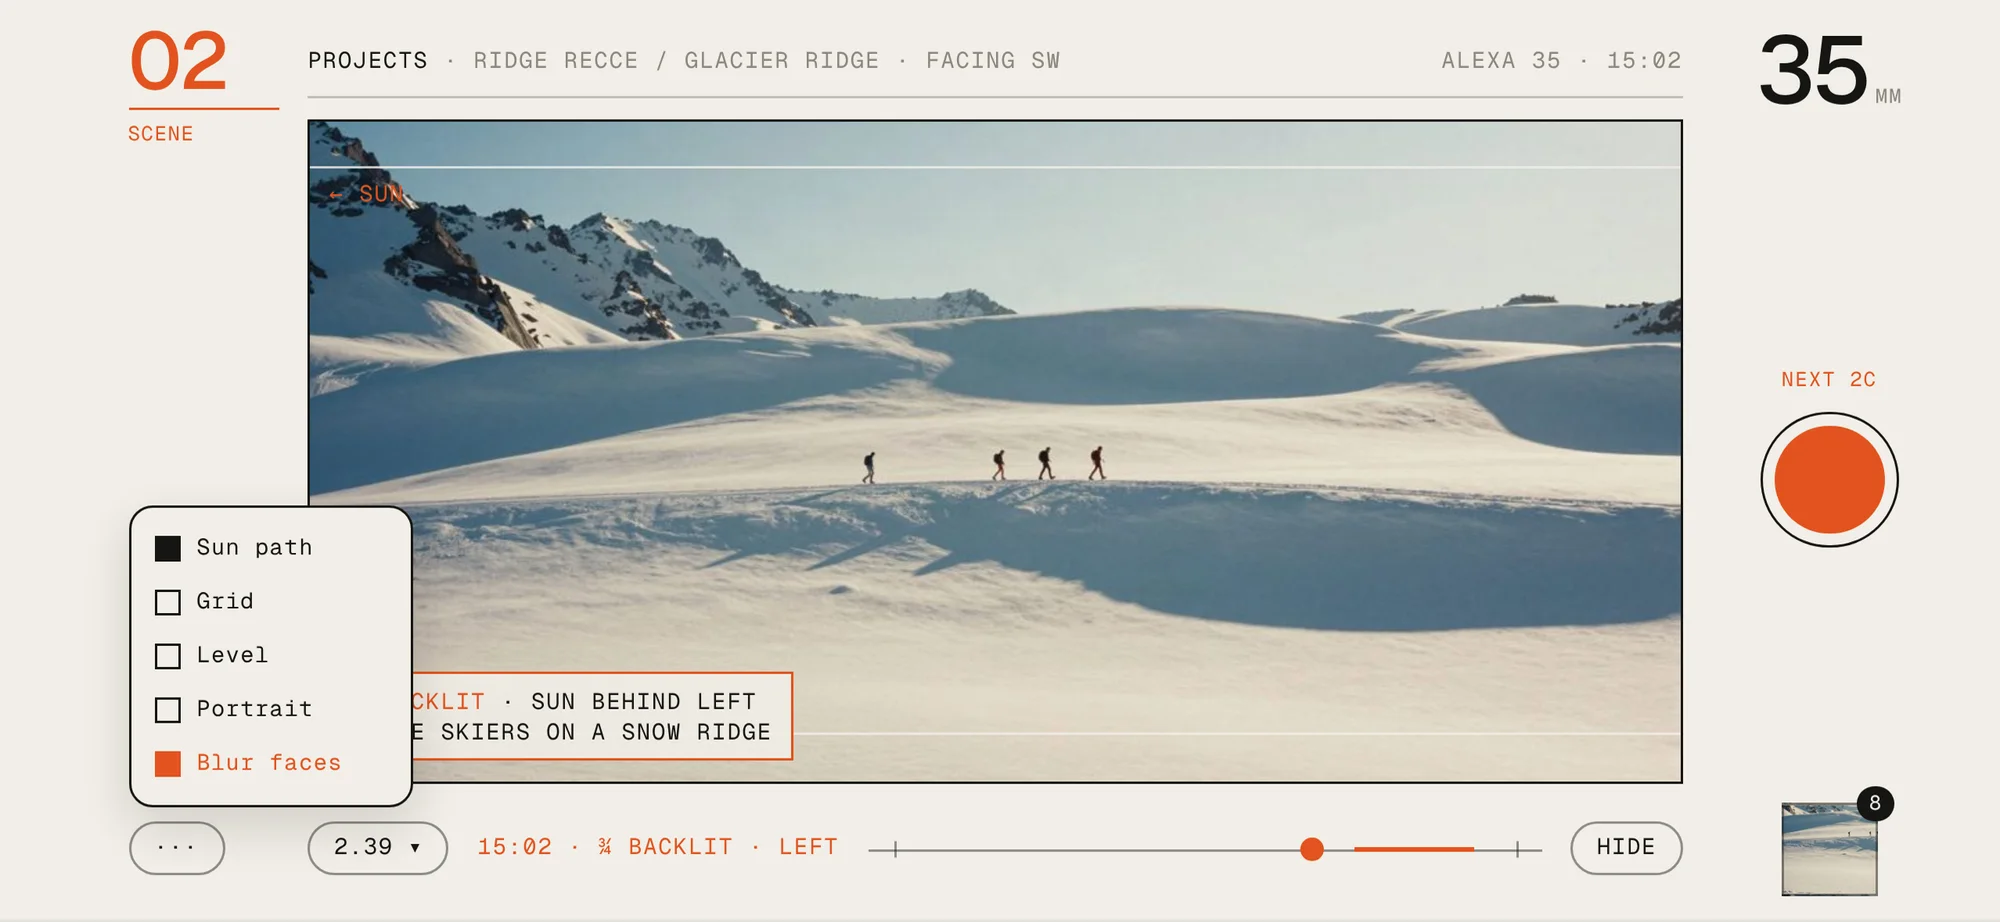
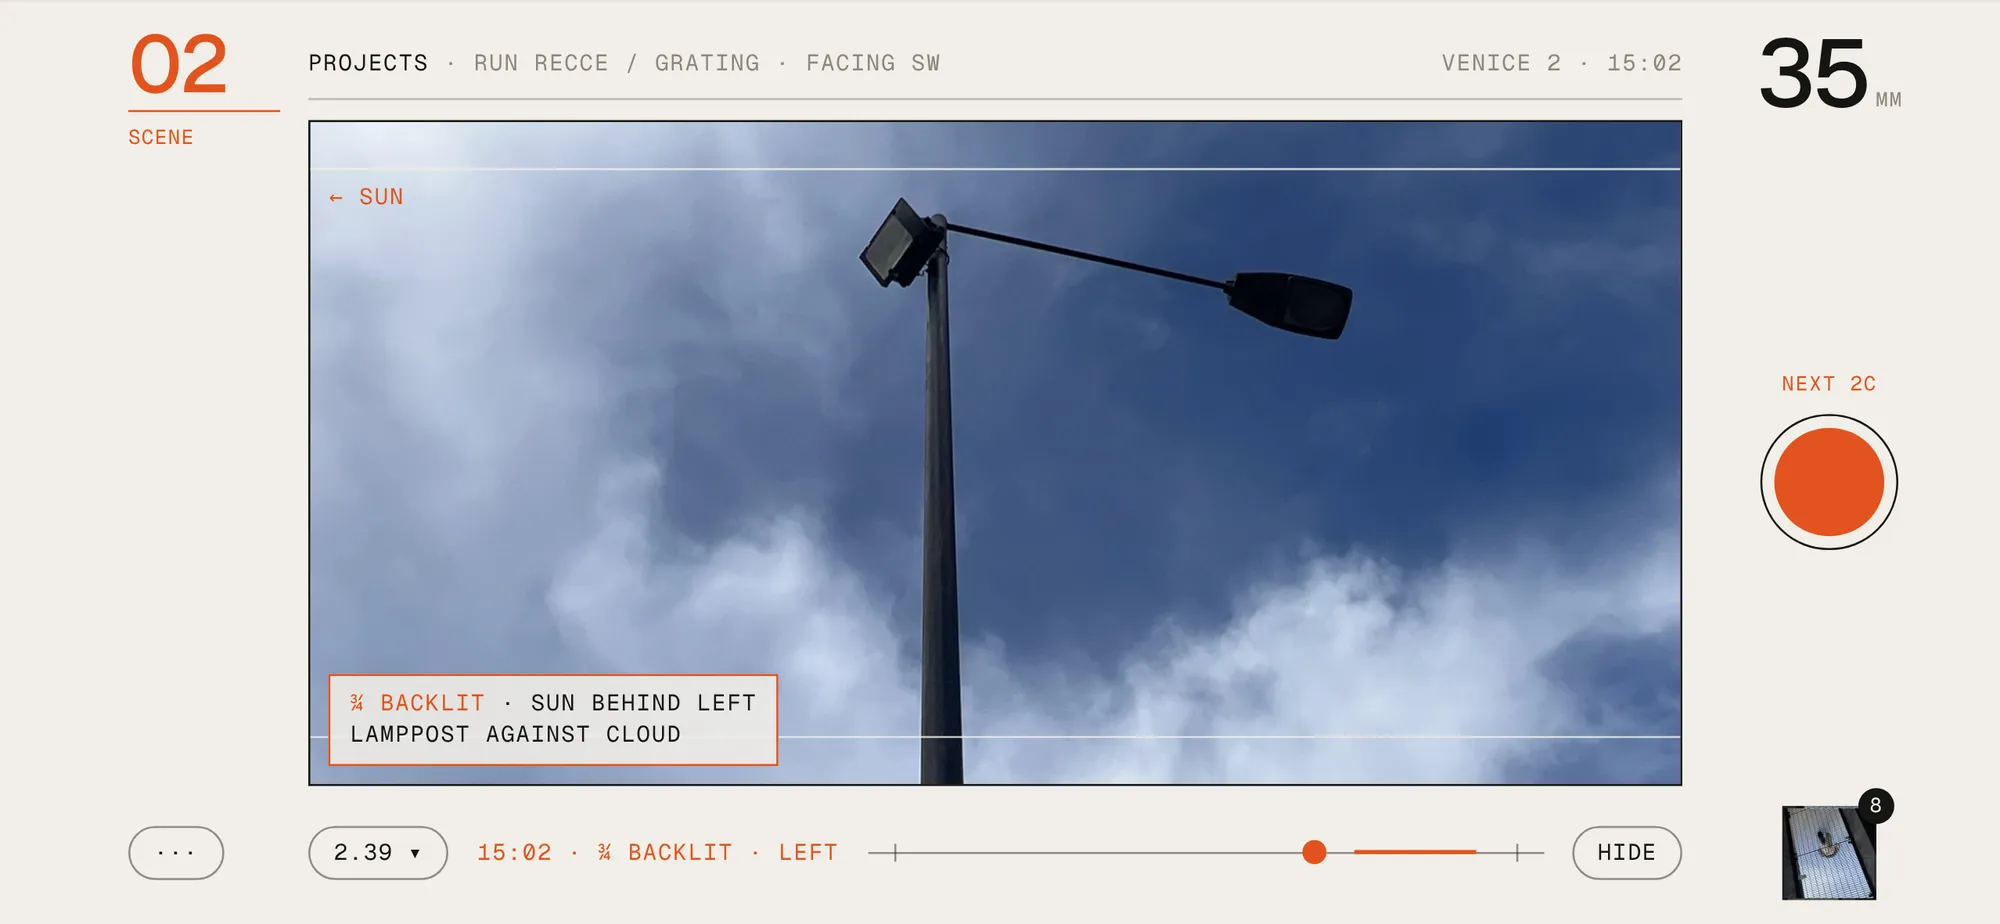
Out & Scout 1.1 site preview: plain scroll, Elliot's copy, real recce stills with faces blurred
Claude-Session: https://claude.ai/code/session_01WU34tcMVhkrTaHNpy6ux3Z

diff --git a/preview/out-and-scout-11/index.html b/preview/out-and-scout-11/index.html
@@ -2,11 +2,11 @@
 <html lang="en-GB">
 <head>
 <meta charset="utf-8">
+<meta name="robots" content="noindex">
 <meta name="viewport" content="width=device-width,initial-scale=1,viewport-fit=cover">
 <title>Out &amp; Scout</title>
 <meta name="claude:viewport-fit-sides" content="cover">
 <meta name="description" content="A viewfinder for the recce. Shoot, and the light, caption and scene are written for you. Send the stills and the shot list before you leave.">
-<meta name="robots" content="noindex">
 <meta name="theme-color" content="#F1EEE7">
 <link rel="icon" href="favicon.svg?v=2" type="image/svg+xml">
 <link rel="preconnect" href="https://fonts.googleapis.com">
@@ -79,15 +79,15 @@ header nav a.on::after{content:"";position:absolute;left:0;right:0;bottom:-13px;
 .kit .in{display:contents}
 .kit .fade{animation:fin .45s var(--e)}
 @keyframes fin{from{opacity:0;transform:translateY(8px)}to{opacity:1;transform:none}}
-.steps .s{height:90svh}
-.steps .s:first-child{height:75svh}
-@media (min-width:900px){
-  .stage{grid-template-columns:minmax(0,1fr) 360px;grid-template-rows:auto 1fr;gap:28px 48px;align-items:center}
-  .tabs{grid-column:1 / -1}
-  .phone{grid-column:1;grid-row:2}
-  .kit{grid-column:2;grid-row:2;grid-template-columns:1fr;align-self:center}
-  .kit p{font-size:14px}
-}
+/* the features: a plain list, one per row */
+.feat{display:grid;border-top:1px solid var(--ink)}
+.f{display:grid;gap:18px;padding-block:28px 36px;border-bottom:1px solid var(--line)}
+.f .kit{display:grid;gap:8px;align-content:start}
+.f .n{font:400 clamp(56px,15vw,120px)/.82 var(--num);letter-spacing:-.06em;color:var(--sun);padding-bottom:8px;border-bottom:1.5px solid var(--sun);width:max-content;min-width:1.4em}
+.f h2{margin:6px 0 0;font:400 clamp(26px,6vw,48px)/1.04 var(--num);letter-spacing:-.035em;text-wrap:balance}
+.f p{margin:0;color:var(--grey);max-width:46ch;font-size:13px}
+.f .scr img{opacity:1;transform:none}
+@media (min-width:900px){.f{grid-template-columns:340px minmax(0,1fr);gap:56px;align-items:center;padding-block:48px}.f p{font-size:14px}}
 
 /* after */
 .sec{border-top:1px solid var(--ink);padding-block:56px;display:grid;gap:28px}
@@ -128,19 +128,14 @@ footer nav{display:flex;gap:18px}
     <span class="lab">iPhone · for DPs and directors on the recce</span>
     <h1>Scout it once.<br>Know the shoot day.</h1>
     <div class="sub">
-      <p>A viewfinder for the recce. <b>You press the shutter.</b> The light, a caption and the scene are written for you, and the shot list is ready before you've left.</p>
+      <p><b>We wanted to make recceing a little easier.</b> So we built the things we kept wishing we had on a recce.</p>
       <div class="btns"><a class="btn" href="#get">Get it free</a><a class="btn ghost" href="#how">How it works ↓</a></div>
     </div>
   </div>
 </section>
 
-<section class="show wrap" id="how" aria-label="How Out &amp; Scout works">
-  <div class="stage max">
-    <div class="tabs" id="tabs" role="tablist" aria-label="Steps"></div>
-    <div class="phone" aria-hidden="true"><i class="isl"></i><div class="scr" id="scr"><i class="ring" id="ring"></i></div></div>
-    <div class="kit" aria-live="polite" id="kit"></div>
-  </div>
-  <div class="steps" id="steps"></div>
+<section class="wrap" id="how" aria-label="How Out &amp; Scout works">
+  <div class="max feat" id="feat"></div>
 </section>
 
 <section class="sec wrap">
@@ -180,49 +175,20 @@ footer nav{display:flex;gap:18px}
 
 <script>
 /* the walk-through. f = focus on the real screen: centre x, y (0 to 1) and zoom; r = ring round the detail that matters */
+function SRC(n){return (typeof IMG!=="undefined"&&IMG[n])||"img/"+n+".webp";}
 var S=[
- {k:"Shoot",img:"os11-viewfinder",n:"01",h:"Just press the shutter.",p:"The light read, a caption of what's in frame and the scene are written as you shoot. No notebook.",f:[.35,.6,1.3],r:[.06,.86,.37,.95]},
- {k:"Selects",img:"os11-selects",n:"02",h:"Stills sent before you leave.",p:"The client wants frames now. Tap to pick, send full-size JPEGs by AirDrop, WhatsApp or Mail.",f:[.5,.5,1.15],r:[.68,.3,.97,.37]},
- {k:"Blur faces",img:"os11-viewer-blur",n:"03",h:"Blur the crew.",p:"Faces are found and softened on the phone before anything goes out. Missed one? Tap Fix.",f:[.46,.42,1.3],r:[.62,.94,.98,1]},
- {k:"Shots",img:"os11-shots",n:"04",h:"The shot list writes itself.",p:"Every shot on the day's sun arc, numbered by scene, with its time and light.",f:[.6,.45,1.2],r:[.14,.07,.98,.24]},
- {k:"Best light",img:"os11-shot-card",n:"05",h:"Know when the light is best.",p:"Each shot gets its best window and how the sun falls: three-quarter backlit, from the left.",f:[.62,.4,1.3],r:[.55,.11,.92,.3]},
- {k:"The PDF",img:"os11-export",n:"06",h:"The shot list, from the car.",p:"An A4 PDF with frames, sun, notes and best times. Tap any word on the page to change it. The producer has it before you're home.",f:[.45,.5,1.2],r:[.37,.06,.75,.88]},
- {k:"Next light",img:"os11-projects",n:"07",h:"The next good light, waiting.",p:"Open the app and it tells you which shot's light comes round next, and when.",f:[.7,.4,1.3],r:[.85,.24,.985,.3]}
+ {k:"Captions & scenes",img:"os11-shots",n:"01",h:"Captions & scenes, done for you.",p:"Auto captions & scene change detection, so the app keeps up as you walk round a recce."},
+ {k:"Blur faces",img:"os11-viewer-blur",n:"02",h:"Blur faces.",p:"We realise not everyone wants to show their face in recce images, so we added a feature to blur them."},
+ {k:"Best light",img:"os11-shot-card",n:"03",h:"A suggestion for the best light.",p:"Picked the way working cinematographers would. We love the backlight."},
+ {k:"Summary",img:"os11-export",n:"04",h:"Detailed or simple, you choose.",p:"Our summary document is made to be detailed or simple, whatever the job needs."},
+ {k:"Send photos",img:"os11-selects",n:"05",h:"Just send the photos.",p:"You can now easily send photos like you're used to."},
+ {k:"iPhone only",img:"os11-viewfinder",n:"06",h:"iPhone only, on purpose.",p:"We wanted to make sure we had the best camera, & that you can choose your exposure when recceing, just like the iPhone camera."}
 ];
-var scr=document.getElementById("scr"),ring=document.getElementById("ring"),kit=document.getElementById("kit"),tabs=document.getElementById("tabs"),steps=document.getElementById("steps");
-var imgs=S.map(function(s,i){var im=new Image();im.src="img/"+s.img+".webp";im.alt="";im.decoding="async";if(i>1)im.loading="lazy";scr.insertBefore(im,ring);return im;});
-S.forEach(function(s,i){
-  var b=document.createElement("button");b.type="button";b.textContent=s.k;b.setAttribute("role","tab");b.onclick=function(){go(i)};tabs.appendChild(b);
-  var d=document.createElement("div");d.className="s";steps.appendChild(d);
-});
-var cur=-1,t1;
-var reduce=matchMedia("(prefers-reduced-motion: reduce)").matches;
-function focus(i,on){
-  var s=S[i],im=imgs[i],z=on?s.f[2]:1,x=s.f[0],y=s.f[1];
-  /* keep the zoomed picture inside the screen */
-  var tx=on?Math.max(-(z-1)/2,Math.min((z-1)/2,(.5-x)*z)):0,ty=on?Math.max(-(z-1)/2,Math.min((z-1)/2,(.5-y)*z)):0;
-  im.style.transform="translate("+(tx*100)+"%,"+(ty*100)+"%) scale("+z+")";
-  if(on){ /* the ring follows the zoom */
-    var r=s.r,map=function(px,py){return [((px-.5)*z+.5+tx)*100,((py-.5)*z+.5+ty)*100];},a=map(r[0],r[1]),b=map(r[2],r[3]);
-    ring.style.left=a[0]+"%";ring.style.top=a[1]+"%";ring.style.width=(b[0]-a[0])+"%";ring.style.height=(b[1]-a[1])+"%";
-  }
-  ring.classList.toggle("on",false);
-}
-function show(i){
-  if(i===cur)return;cur=i;clearTimeout(t1);
-  imgs.forEach(function(im,j){im.classList.toggle("on",j===i);if(j!==i)im.style.transform="";});
-  focus(i,false);
-  var s=S[i];
-  kit.innerHTML='<span class="n fade">'+s.n+'</span><h2 class="fade">'+s.h+'</h2><p class="fade">'+s.p+'</p>';
-  tabs.querySelectorAll("button").forEach(function(b,j){b.setAttribute("aria-current",j===i?"true":"false")});
-  var on=tabs.children[i];tabs.scrollTo({left:on.offsetLeft-tabs.clientWidth/2+on.clientWidth/2,behavior:"smooth"});
-  if(!reduce)t1=setTimeout(function(){focus(i,true)},900);else focus(i,true);
-}
-function go(j){var s=steps.children[j];scrollTo({top:s.getBoundingClientRect().top+scrollY+4,behavior:"smooth"});}
-function onScroll(){var k=0,h=innerHeight;for(var i=0;i<steps.children.length;i++){if(steps.children[i].getBoundingClientRect().top<h*.55)k=i;}show(k);}
-addEventListener("scroll",onScroll,{passive:true});addEventListener("resize",onScroll);
-scr.parentNode.onclick=function(){var c=cur;focus(c,false);clearTimeout(t1);t1=setTimeout(function(){focus(c,true)},700);};
-onScroll();
+var feat=document.getElementById("feat");
+feat.innerHTML=S.map(function(s,i){
+  return '<article class="f"><div class="kit"><span class="n">'+s.n+'</span><span class="lab"><b>'+s.k+'</b></span><h2>'+s.h+'</h2><p>'+s.p+'</p></div>'+
+    '<div class="phone"><i class="isl"></i><div class="scr"><img src="'+SRC(s.img)+'" alt="Out &amp; Scout '+s.k+' screen" loading="'+(i<2?"eager":"lazy")+'" decoding="async"></div></div></article>';
+}).join("");
 
 /* the sun in London right now, the same maths the app uses (NOAA) */
 (function(){
